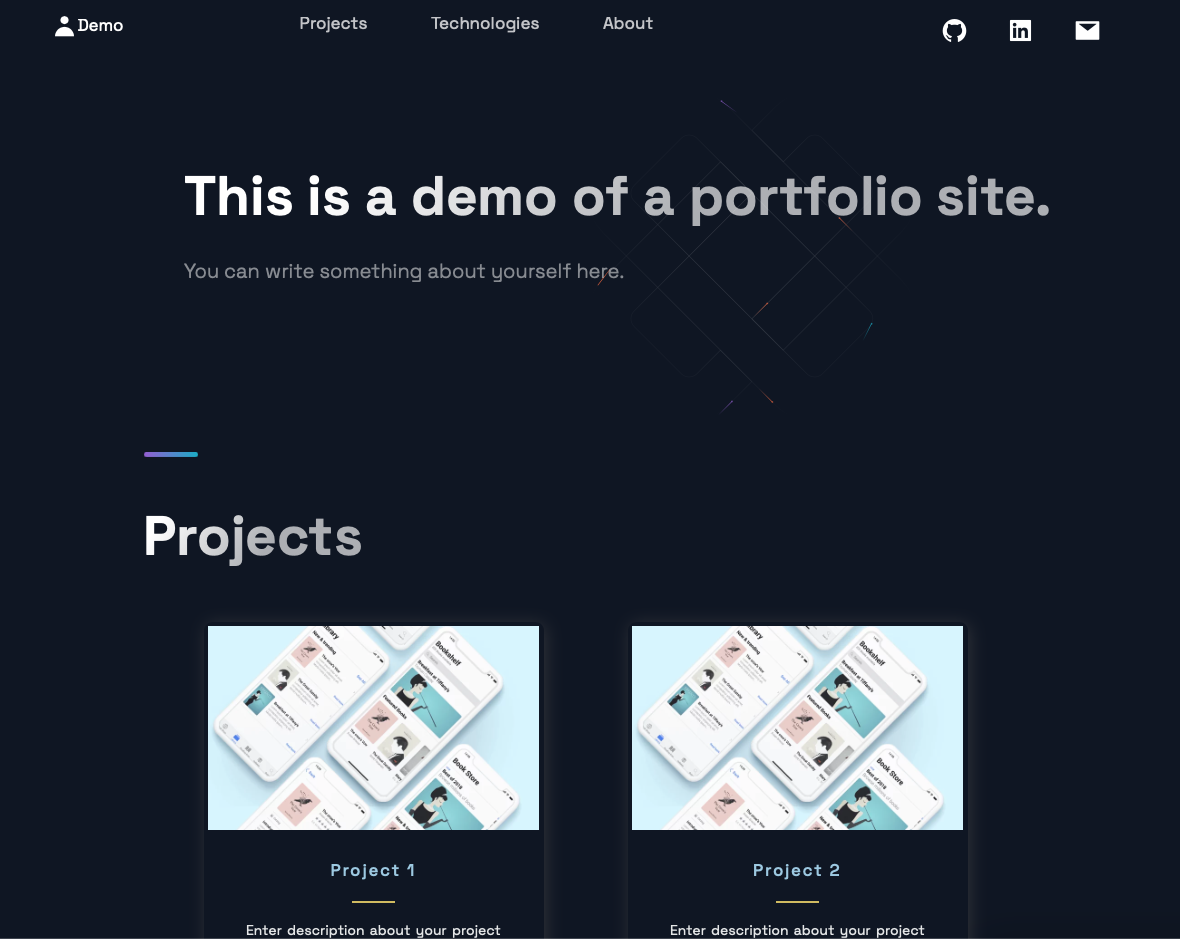
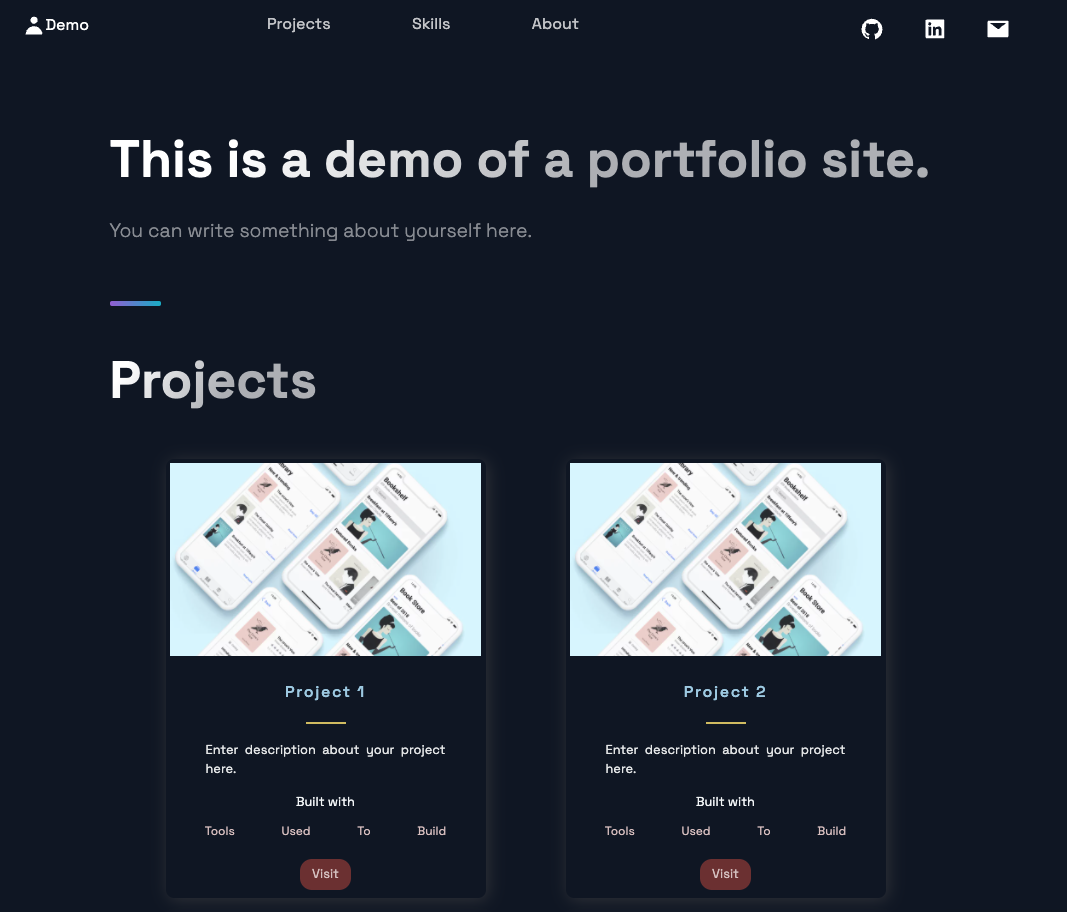
Updated template (#3)
* New screenshots

Updated images with fixed sizes

* Added skills section

Replaced technologies section with skills throughout the website.

diff --git a/portfolio/pages/index.js b/portfolio/pages/index.js
@@ -1,21 +1,16 @@
 import Accomplishments from "../components/Accomplishments/Accomplishments";
-import BgAnimation from "../components/BackgroundAnimation/BackgroundAnimation";
 import Hero from "../components/Hero/Hero";
 import Projects from "../components/Projects/Projects";
-import Technologies from "../components/Technologies/Technologies";
+import Skills from "../components/Skills/Skills";
 import Timeline from "../components/TimeLine/TimeLine";
 import { Layout } from "../layout/Layout";
-import { Section } from "../styles/GlobalComponents";
 
 const Home = () => {
   return (
     <Layout>
-      <Section grid>
-        <Hero />
-        <BgAnimation />
-      </Section>
+      <Hero />
       <Projects />
-      <Technologies />
+      <Skills />
       <Timeline />
       <Accomplishments />
     </Layout>

diff --git a/portfolio/components/Skills/Skills.js b/portfolio/components/Skills/Skills.js
@@ -12,22 +12,22 @@ import {
   ListItem,
   ListParagraph,
   ListTitle
-} from "./TechnologiesStyles";
+} from "./SkillsStyles";
 import {
   BackEnd,
   FrontEnd,
   Languages,
-  TechDescription,
+  SkillsDescription,
   Tools
 } from "../../constants/constants";
 
-const Technologies = () => (
-  <Section id="technology">
+const Skills = () => (
+  <Section id="skills">
     <SectionDivider />
     <br />
     <br />
-    <SectionTitle>Technologies</SectionTitle>
-    <SectionText>{TechDescription}</SectionText>
+    <SectionTitle>Skills</SectionTitle>
+    <SectionText>{SkillsDescription}</SectionText>
     <List>
       <ListItem>
         <DiCode size="3rem" />
@@ -64,4 +64,4 @@ const Technologies = () => (
   </Section>
 );
 
-export default Technologies;
+export default Skills;

diff --git a/portfolio/constants/constants.js b/portfolio/constants/constants.js
@@ -11,7 +11,7 @@ export const HomeHeader = "This is a demo of a portfolio site.";
 
 export const HomeDescription = "You can write something about yourself here.";
 
-export const TechDescription =
+export const SkillsDescription =
   "Here are some technologies to show off your skills.";
 
 export const AboutDescription = "A little bit about yourself.";

diff --git a/portfolio/components/Header/Header.js b/portfolio/components/Header/Header.js
@@ -43,8 +43,8 @@ const Header = () => (
         </Link>
       </li>
       <li>
-        <Link href="#technology" passHref>
-          <NavLink>Technologies</NavLink>
+        <Link href="#skills" passHref>
+          <NavLink>Skills</NavLink>
         </Link>
       </li>
       <li>

diff --git a/portfolio/components/Footer/FooterStyles.js b/portfolio/components/Footer/FooterStyles.js
@@ -14,7 +14,6 @@ export const FooterWrapper = styled.section`
   }
 `;
 
-
 export const SocialIconsContainer = styled.div`
   max-width: 1040px;
   display: flex;
